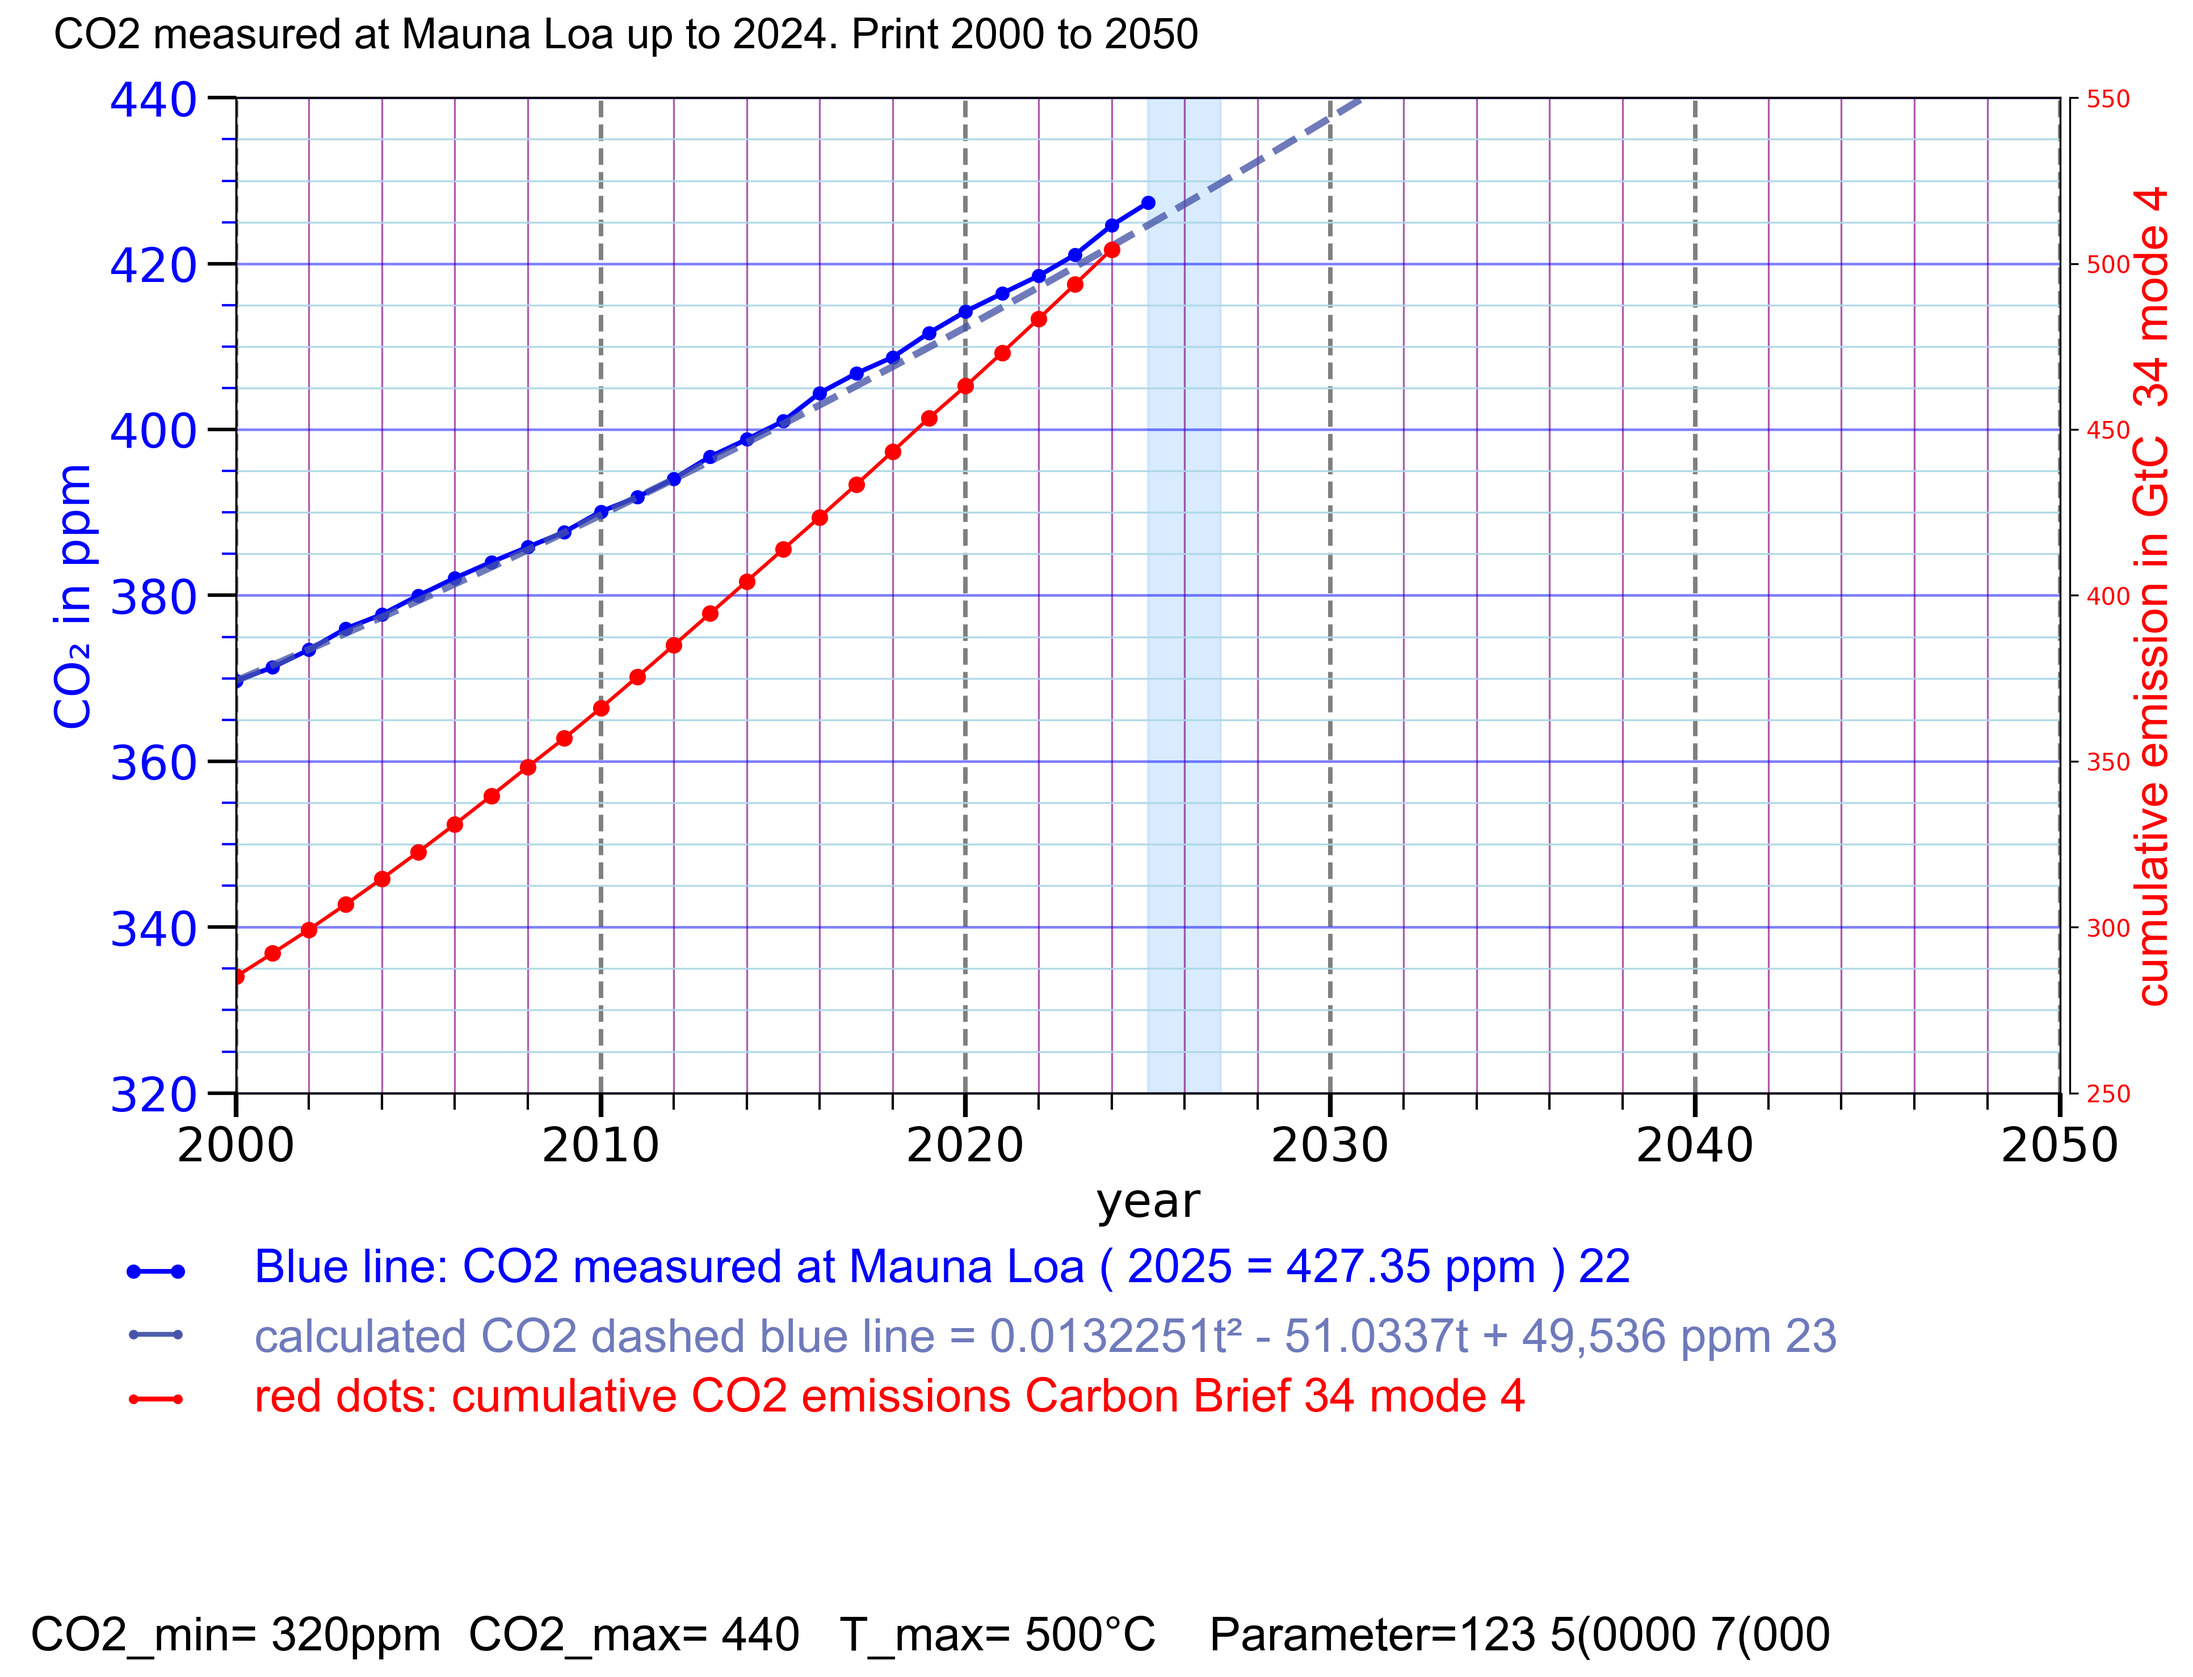
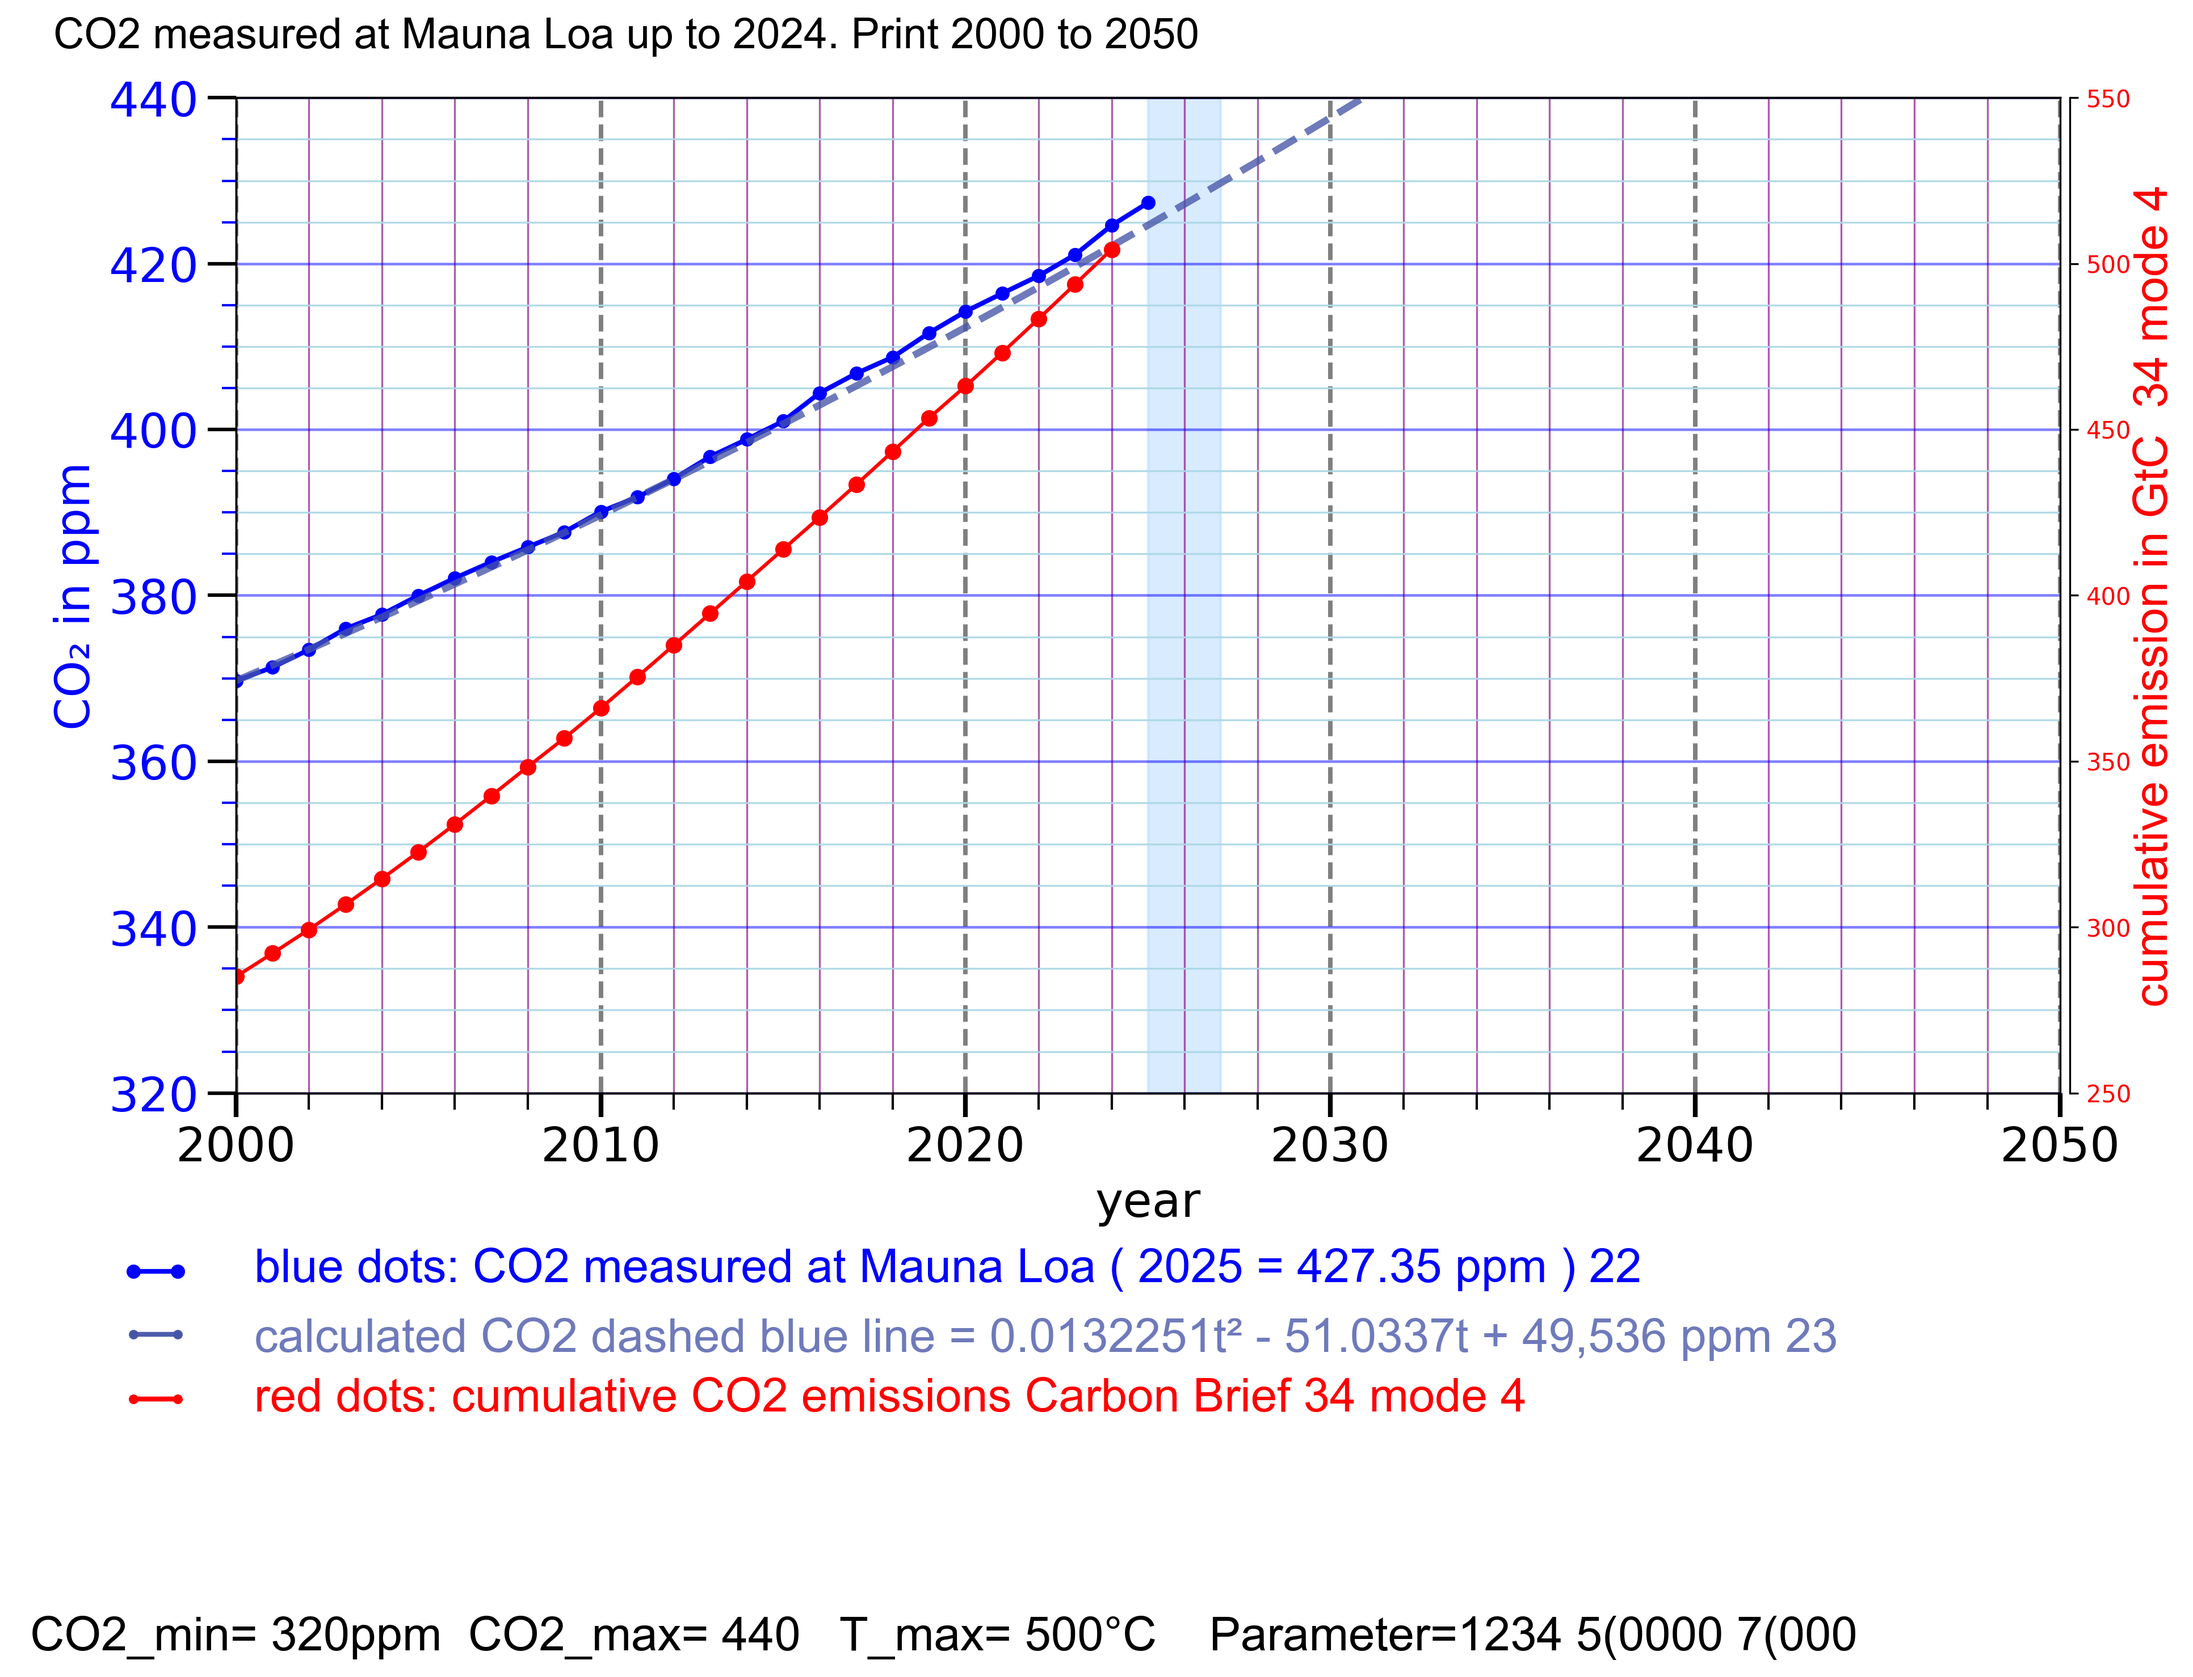
v = "42b5"

Changed region(s): [[0.1242, 0.747, 0.7453, 0.7781], [0.7764, 0.9648, 0.8385, 0.9959], [0.6832, 0.9648, 0.7453, 0.9959]]

diff --git a/42_CO2_T.py b/42_CO2_T.py
@@ -1,5 +1,5 @@
 # 42_CO2_T.py 
-v = "42b4"
+v = "42b5"
 # Thomas Boettcher
 # part 1 configure 
 # part 2.2 plot CO2 Mauna Loa
@@ -37,7 +37,7 @@ c22 = "blue" # plot1 color
 plot23_Glen_CO2 = 2 # 3 print in line 2, 3, 0 keine Kurve Glen , 1 = 0.013t² - 51t + 49,536 in dark blue  
 c23 = "#4554A8C6"   # c23 = "#4B3FD1"
 
-plot34_CO2_emission = 3 # 4,3,2, 0 cumulative CO2 emissions 1750 to 2024
+plot34_CO2_emission = 34 # 34 row3 mode 4, 42 row 4 mode 2   cumulative CO2 emissions 1750 to 2024
 c34 = "purple"
 c34 = "red"
 # no part 4
@@ -129,7 +129,7 @@ header_parameter = header_parameter + f"{plot73_ECS_T} "
 # -----------------------------
 #  part 2   plot CO2 
 #  part 2.2 plot CO2 Mauna Loa
-blue22_text="Blue line: CO2 measured at Mauna Loa ( 2025 = 427.35 ppm ) 22"
+blue22_text="blue dots: CO2 measured at Mauna Loa ( 2025 = 427.35 ppm ) 22"
 # -----------------------------
 # 2.2.1 years 1960–2025
 years22 = list(range(1960, x_end))
@@ -219,20 +219,20 @@ if plot23_Glen_CO2 > 0:
 #       World,OWID_WRL,1750,9305937
 if plot34_CO2_emission > 0:
    print34_text ="red dots: cumulative CO2 emissions Carbon Brief 34 mode "
-   # plot34_CO2_emission_A = 1, read self made csv 2000 GtCO2
-   # plot34_CO2_emission_A = 2, read csv 2000 000 000 000 tCO2
-   # plot34_CO2_emission_A = 3, read csv 2000 GtCO2 csv_34a3_cumulative-co-emissions.csv 1750 to 2024
-   # plot34_CO2_emission_A = 4, read csv 2000 GtCO2
-   # plot34_CO2_emission_A = 5
-   plot34_CO2_emission_A = 4
-   print34_text = print34_text + str(plot34_CO2_emission_A)
-   # 3.4.1
-   if plot34_CO2_emission_A == 1:
+   # plot34_CO2_emission_mode = 1, read self made csv 2000 GtCO2
+   # plot34_CO2_emission_mode = 2, read csv 2000 000 000 000 tCO2
+   # plot34_CO2_emission_mode = 3, read csv 2000 GtCO2 csv_34a3_cumulative-co-emissions.csv 1750 to 2024
+   # plot34_CO2_emission_mode = 4, read csv 2000 GtCO2
+   # plot34_CO2_emission_mode = 5
+   first_digit = int(str(plot34_CO2_emission)[0]) # print in row
+   second_digit = int(str(plot34_CO2_emission)[1])
+   plot34_CO2_emission = first_digit
+   plot34_CO2_emission_mode = second_digit
+   print34_text = print34_text + str(plot34_CO2_emission_mode)
+   # 3.4.mode 1 
+   if plot34_CO2_emission_mode == 1:
       df34a = pd.read_csv("csv_34a1_co2_world_generated.csv") # processed file
-      # print("plot34_CO2_emission_A 1  df34a")
-      # print(df34a.head(1))
-   # 3.4.2
-   elif plot34_CO2_emission_A == 2:
+   elif plot34_CO2_emission_mode == 2:   # 3.4.mode 2
       df34b = pd.read_csv("csv_34a2_co2_sum.csv") # our world in data file
       co2_sum_world = (
          df34b[df34b["Entity"] == "World"][["Year34", "Cumulat"]]
@@ -244,8 +244,7 @@ if plot34_CO2_emission > 0:
       co2_sum_world["GCumulat"] = co2_sum_world["Cumulat"] / 1e9
       print("co2_cumul 2  df34b")
       print(co2_sum_world.head(2))
-   # 3.4.3
-   elif plot34_CO2_emission_A == 3:
+   elif plot34_CO2_emission_mode == 3:  # 3.4.mode 3
       df34b = pd.read_csv("csv_34a3_cumulative-co-emissions.csv") # our world in data file
       co2_sum_world = (
          df34b[df34b["Entity"] == "World"][["Year", "Cumulat"]]
@@ -257,7 +256,7 @@ if plot34_CO2_emission > 0:
       co2_sum_world["GCumulat"] = (co2_sum_world["Cumulat"] / 1e9).astype(int)
       x34years = df34b["Year"]
       cumulative_gt = co2_sum_world["GCumulat"]
-   elif plot34_CO2_emission_A == 4:
+   elif plot34_CO2_emission_mode == 4:  # 3.4.mode 5
       df34b = pd.read_csv("csv_34a3_cumulative-co-emissions.csv") # our world in data file
       co2_sum_world = (
          df34b[df34b["Entity"] == "World"][["Year", "Cumulat"]]
@@ -269,11 +268,7 @@ if plot34_CO2_emission > 0:
       co2_sum_world["CCumulat"] = (co2_sum_world["Cumulat"] / 1e9 * 12 / 44 )
       x34_year = df34b["Year"]
       y_sum_gt = co2_sum_world["CCumulat"]
-      print(y_sum_gt.head(2))
-      print("co2_cumul.csv 3  df34b---4--")
-      print(co2_sum_world.head(2))
-# 3.4.8
-   else:
+   else:  # 3.4.mode 9
       df34b = pd.read_csv("co2_cumul.csv") # our world in data file
       co2_sum_world = (
          df34b[df34b["Entity"] == "World"][["Year34", "Cumulat"]]
@@ -281,7 +276,7 @@ if plot34_CO2_emission > 0:
          .sort_values("Year34")
          .reset_index(drop=True)
          )
-      # print("plot34_CO2_emission_A 0  df34b")
+      # print("plot34_CO2_emission_mode 0  df34b")
       # print(co2_sum_world.head(10))
       # 3.4.4 in Gt CO2
       co2_sum_world["GCumulat"] = co2_sum_world["Cumulat"] / 1e9
@@ -673,19 +668,19 @@ elif plot34_CO2_emission > 0:
                    fontname="Arial",fontsize=20,
                    labelpad=1   # smaller = closer to y axis
                    )
-   if plot34_CO2_emission_A == 1:       # df34a = pd.read_csv("co2_sum_world.csv")
+   if plot34_CO2_emission_mode == 1:       # df34a = pd.read_csv("co2_sum_world.csv")
       ax34.plot(df34a["Year34"], df34a["GCumulat"], marker="o",  color=c34, label="plot34_CO2_emission")
       ax34.tick_params(axis="y", labelcolor=c34)
       ax34.set_ylim(0, 2000) # best scaling 2000 GtCO2
-   elif plot34_CO2_emission_A == 2:
+   elif plot34_CO2_emission_mode == 2:
       ax34.plot(df34b["Year34"], df34b["Cumulat"], marker="o",  color=c34, label="plot34_CO2_emission")
       ax34.tick_params(axis="y", labelcolor=c34)
       ax34.set_ylim(0, 2000000000000) #8
-   elif plot34_CO2_emission_A == 3:
+   elif plot34_CO2_emission_mode == 3:
       ax34.plot(co2_sum_world["Year"], co2_sum_world["GCumulat"], marker="o",  color=c34, label="plot34_CO2_emission")
       ax34.tick_params(axis="y", labelcolor=c34)
       ax34.set_ylim(0, 2000) # best scaling 2000 GtCO2
-   elif plot34_CO2_emission_A == 4:
+   elif plot34_CO2_emission_mode == 4:
       ax34.set_ylabel("cumulative emission in GtC  34 mode 4", color=c34,
                    fontname="Arial",fontsize=20,
                    labelpad=1   # smaller = closer to y axis
